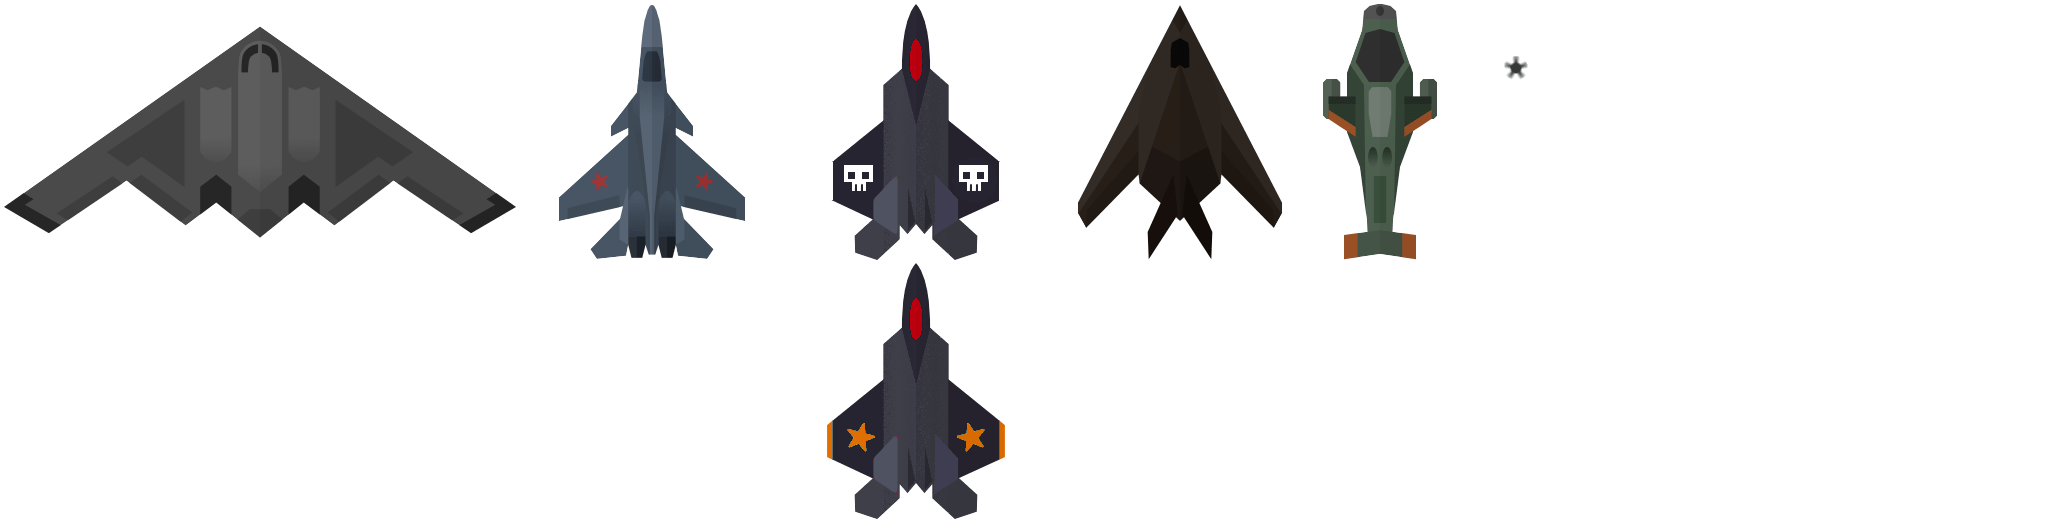
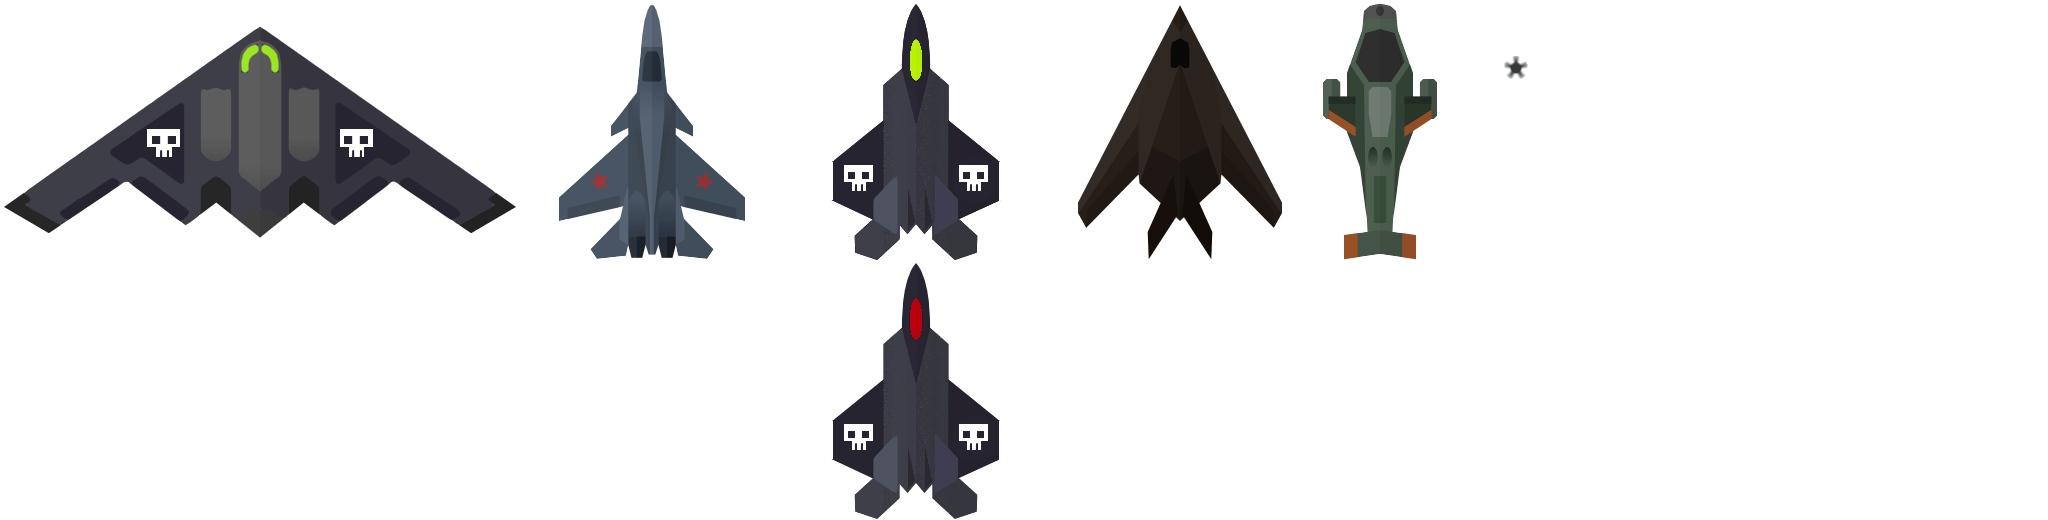
colors modification + code cleanup

diff --git a/assets/badass.js b/assets/badass.js
@@ -42,14 +42,6 @@
                 }
             }
         }
-
-        // function customSkin(Bt) {
-        //    if ("Badass" == Bt.name) {
-        //        Xt = {
-        //            raptor: ["aircraft", [788, 264, 256, 256]]
-        //        }
-        //    }
-        //}
         
     }
 
